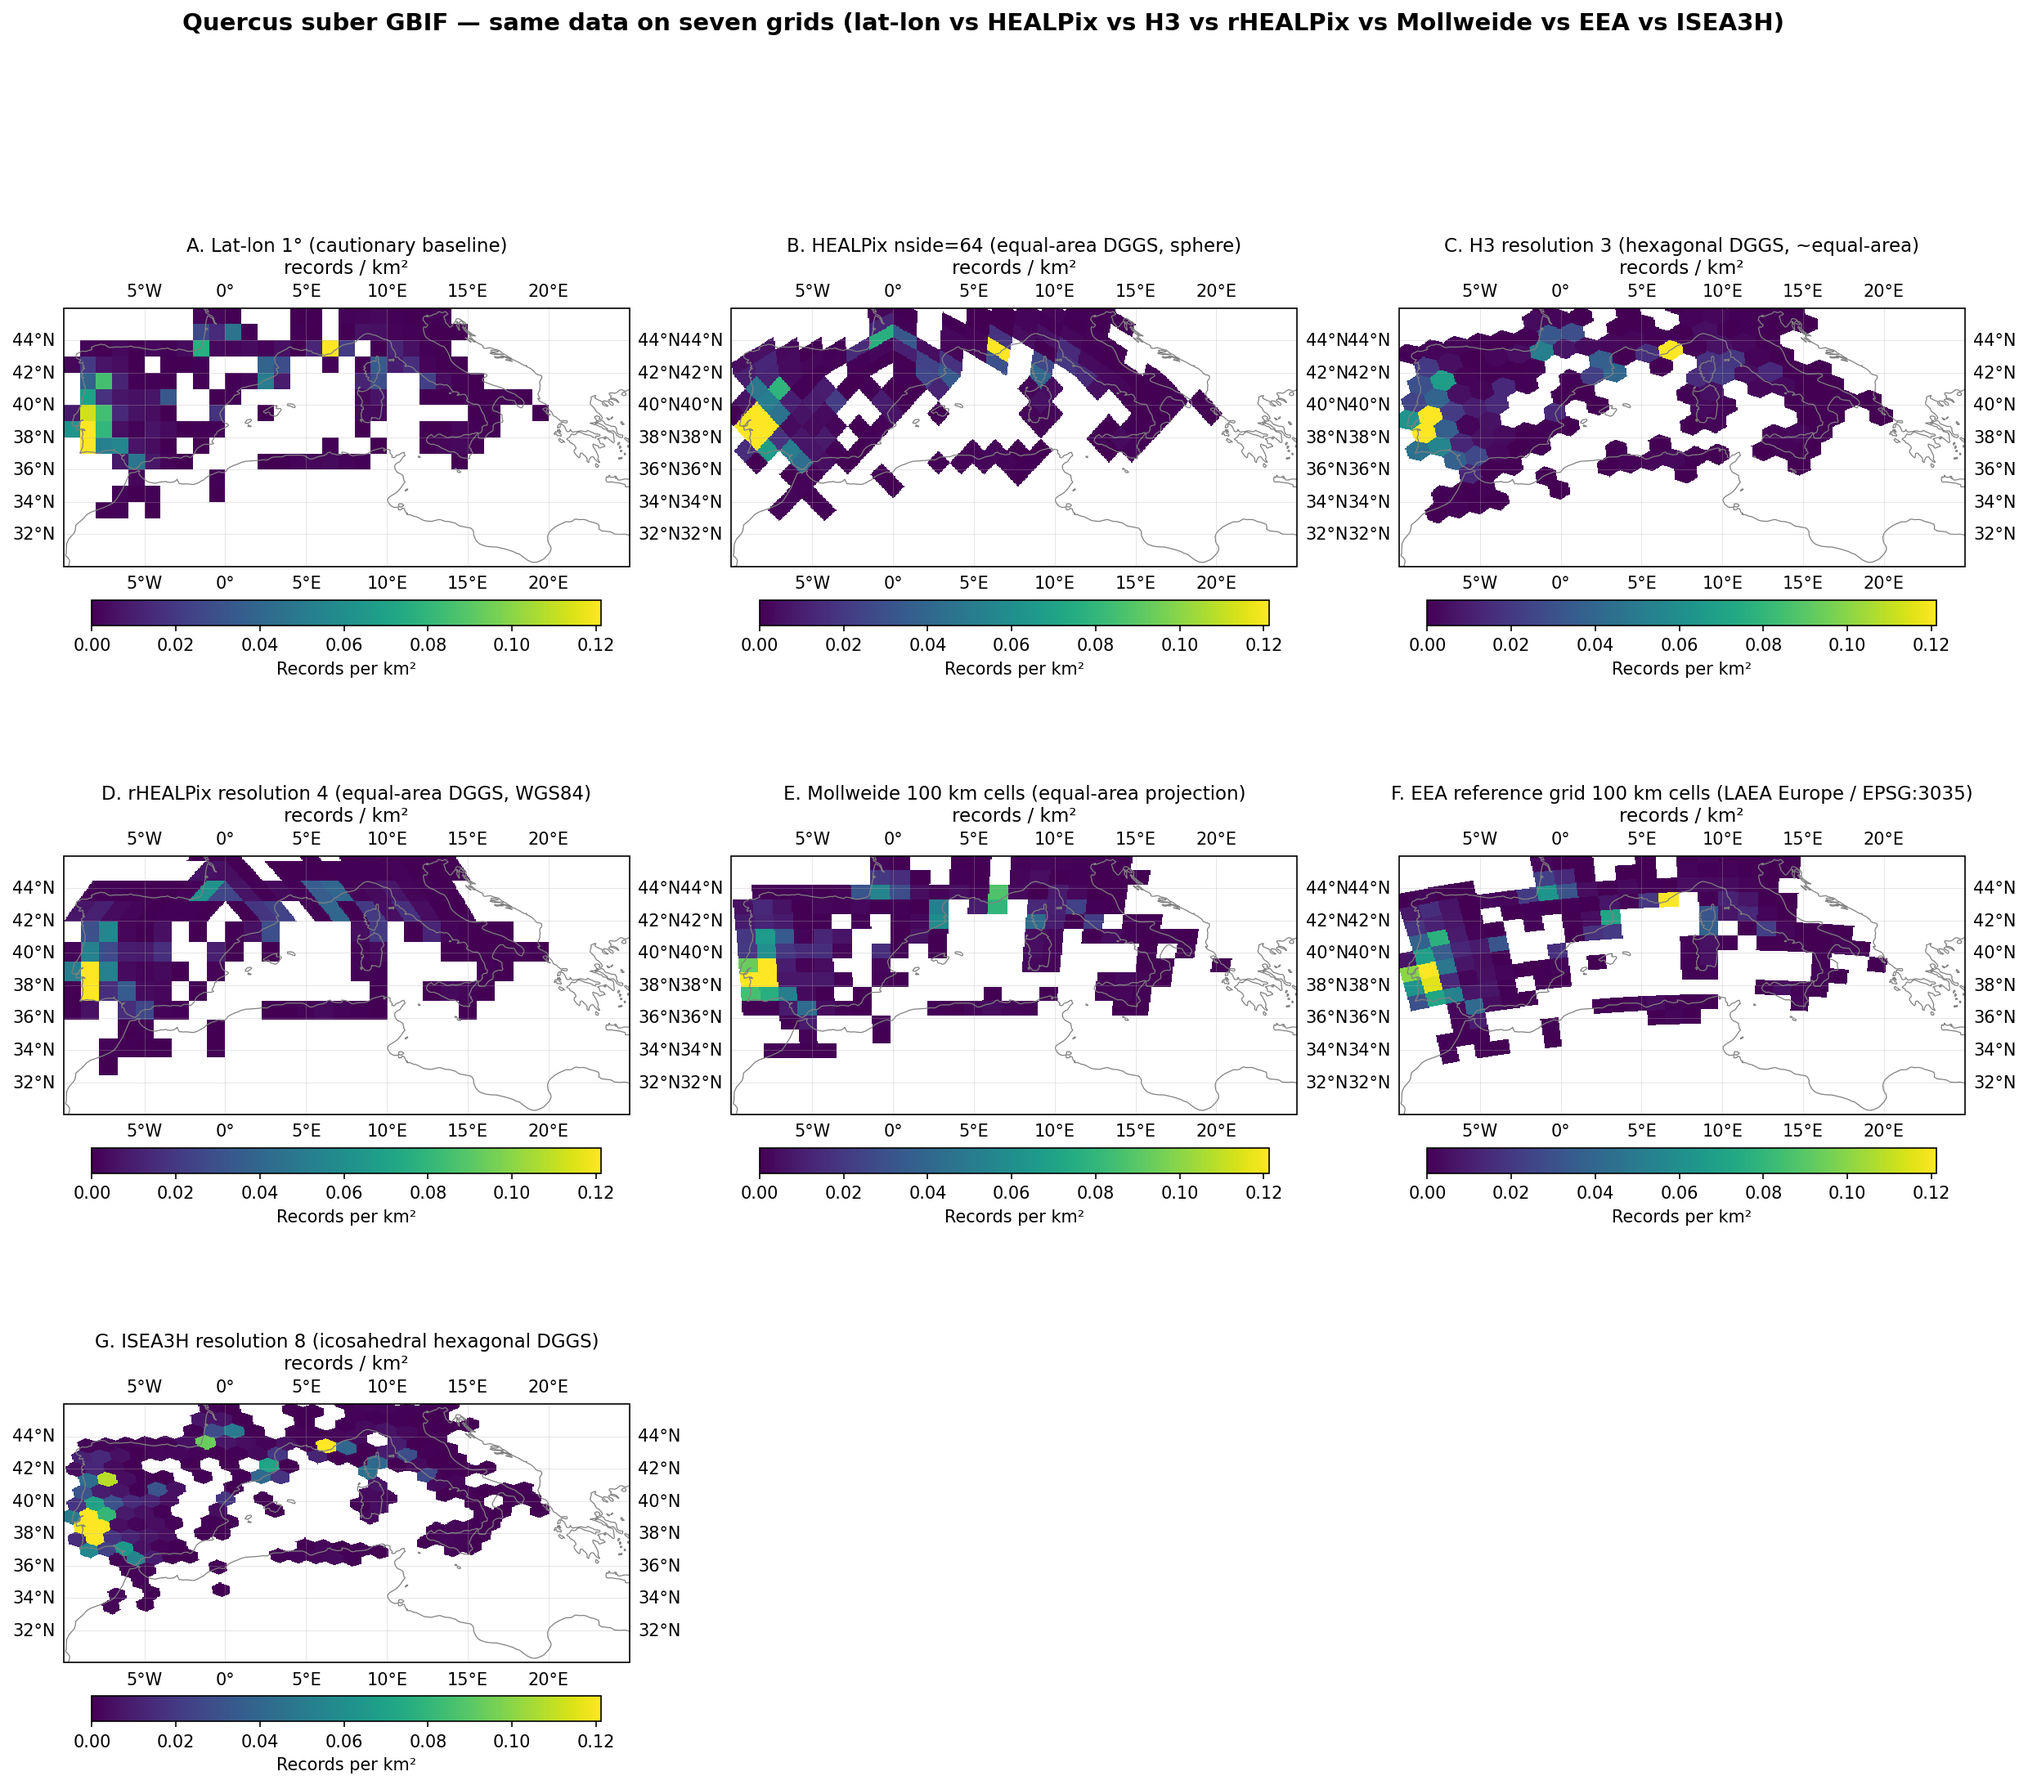
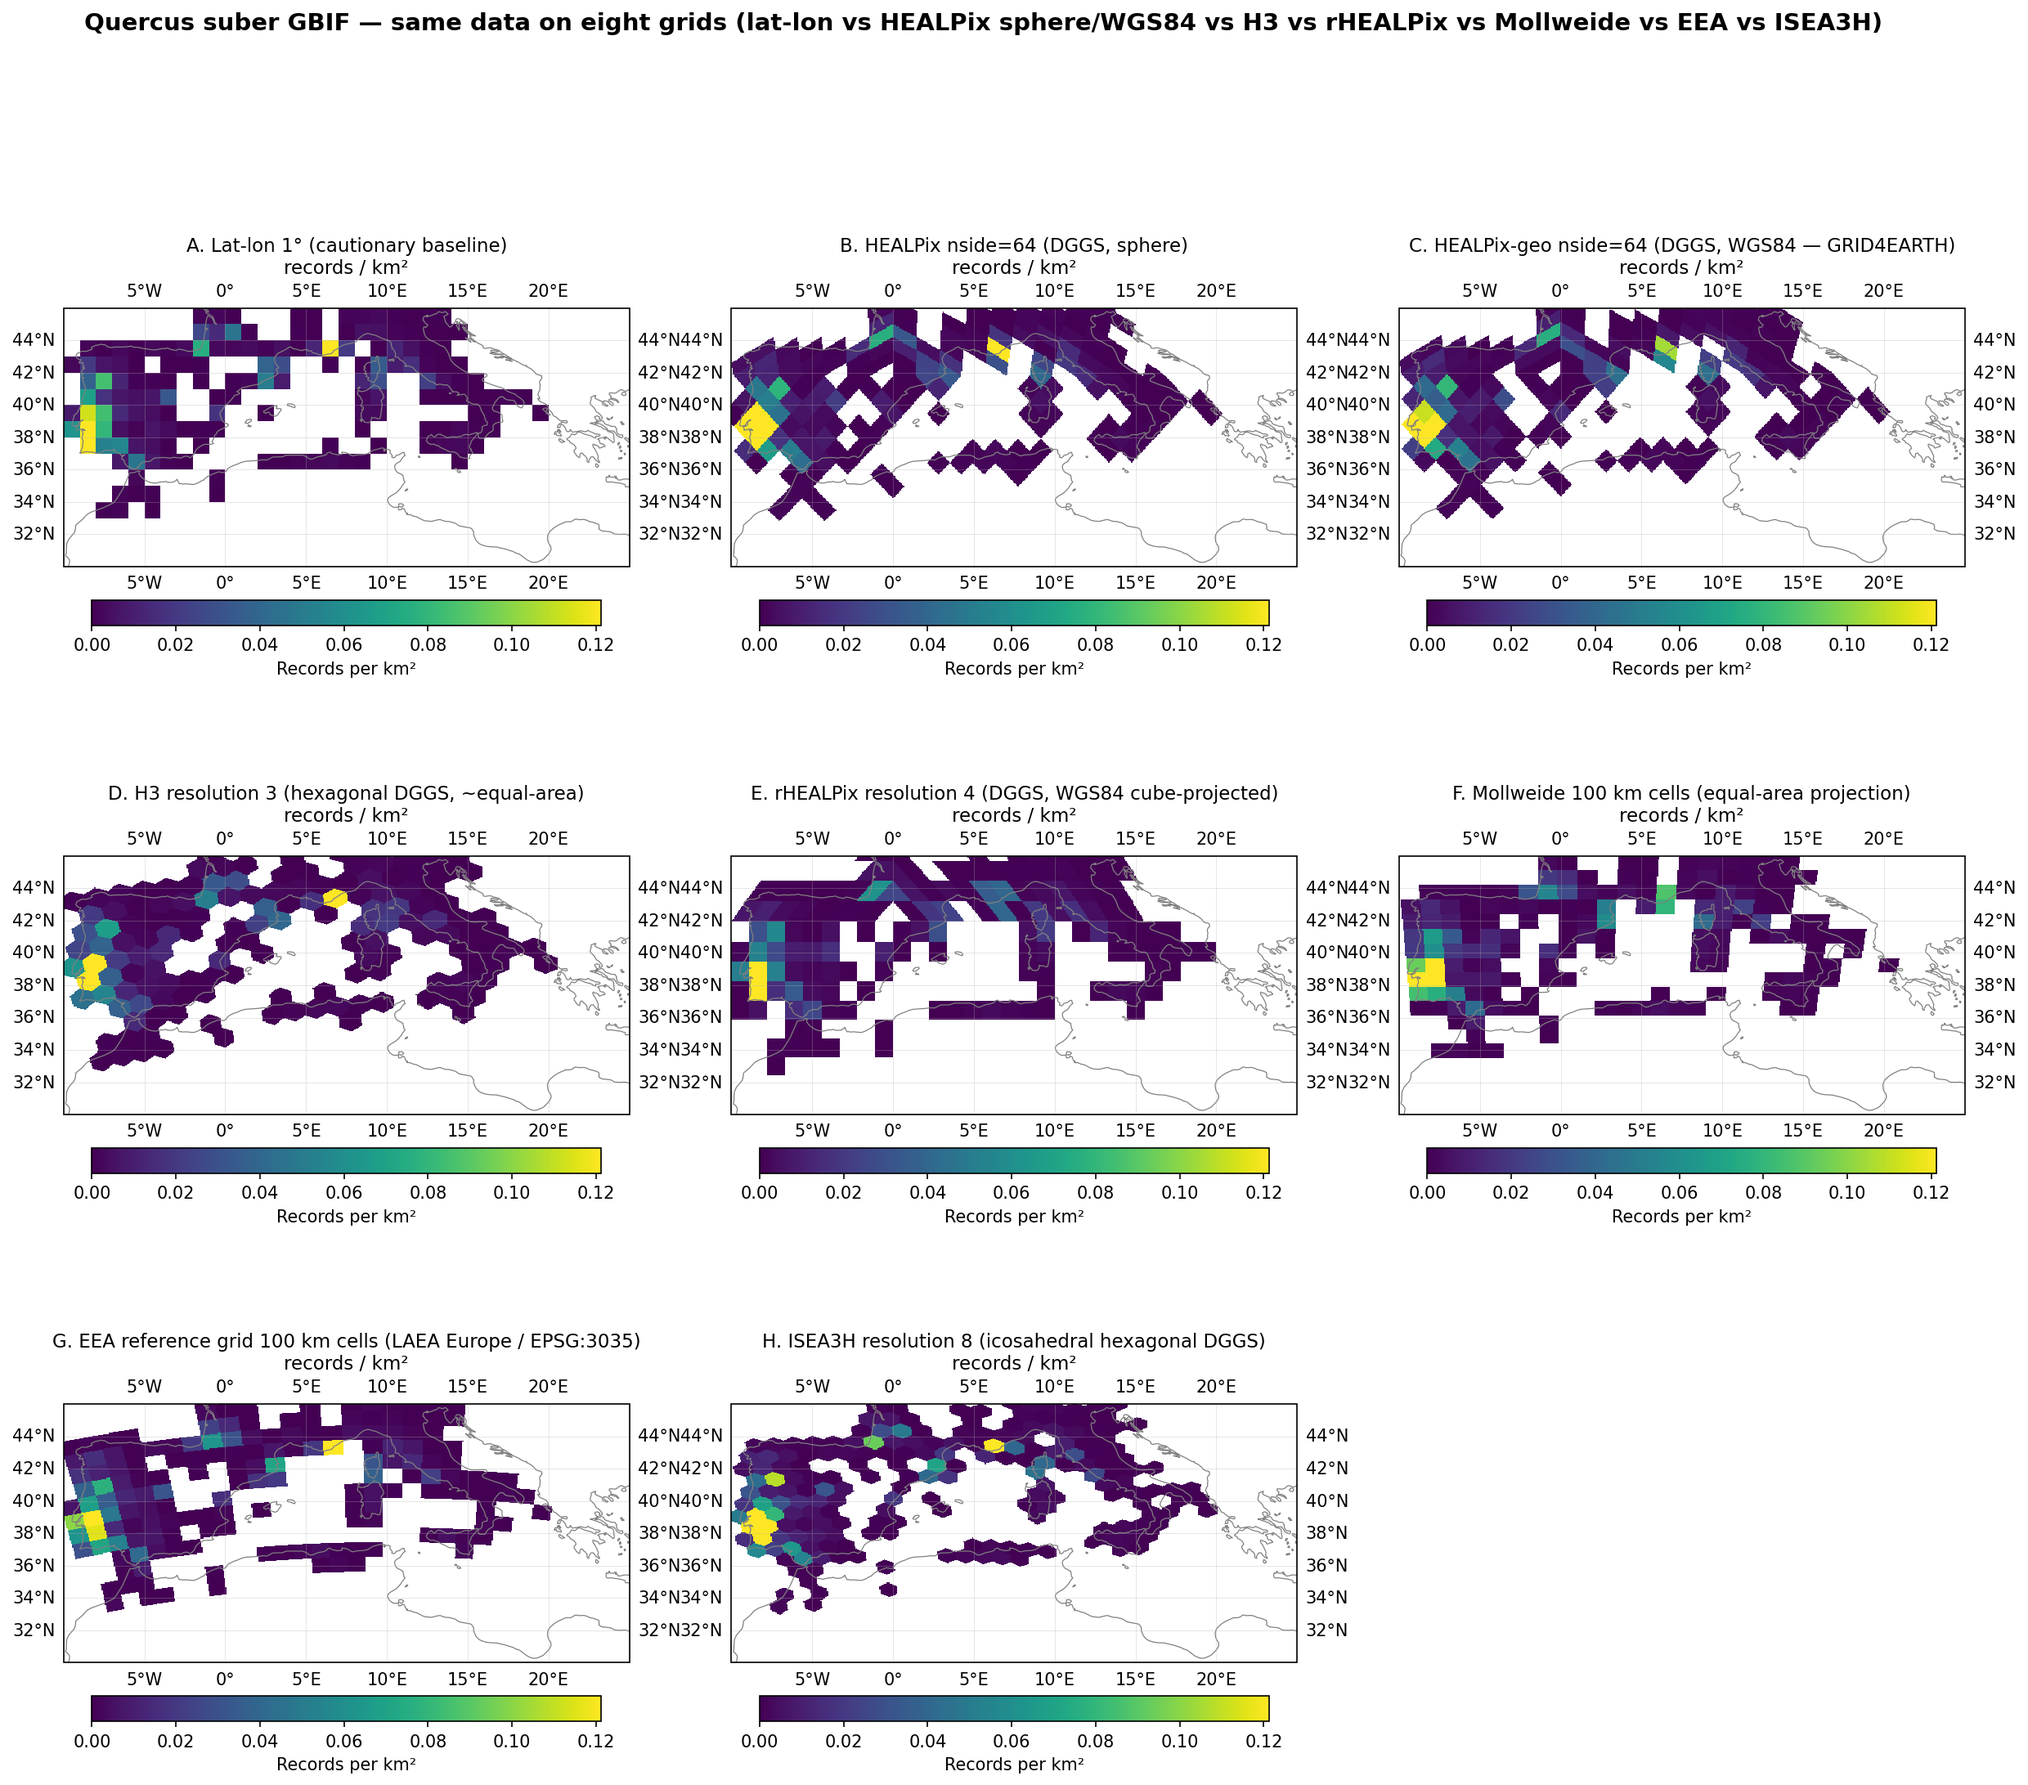
notebook 07: add HEALPix-geo (WGS84) panel — 8-grid comparison
Adds HEALPix-on-WGS84 (via healpix-geo, ellipsoid="WGS84") as panel
C in the 3x3 layout, alongside HEALPix-on-sphere (panel B). The
two HEALPix variants look visually identical at this resolution -
which is the pedagogical point. The cell IDs are the same NESTED
integers; only the cell *boundaries* shift by ~0.7% area at boreal
latitudes (a difference invisible in a density-pattern figure but
real and material at high-precision integration scenarios — see
notebook 08 Section A).

This gives the comprehensive comparison full GRID4EARTH coverage:
- HEALPix-on-sphere (the reference HEALPix from Gorski et al. 2005)
- HEALPix-on-WGS84 (the GRID4EARTH "Ellipsoidal HEALPix" path)
- rHEALPix (the cube-projected equal-area HEALPix variant on WGS84)

Tested locally in pangeo conda env. 0 errors. All 8 grids show
near-identical density patterns over Q. suber's Mediterranean range;
lat-lon (panel A) is the only one that distorts.

diff --git a/notebooks/07_multigrid_quercus_suber.py b/notebooks/07_multigrid_quercus_suber.py
@@ -60,6 +60,7 @@ from pathlib import Path
 import cartopy.crs as ccrs
 import geopandas as gpd
 import h3
+import healpix_geo.nested as hgn
 import healpy as hp
 import matplotlib.pyplot as plt
 import numpy as np
@@ -161,6 +162,34 @@ counts_healpix = np.bincount(pix, minlength=NPIX)
 print(f"HEALPix nside={NSIDE}: {NPIX:,} cells globally, "
       f"each {HEALPIX_CELL_AREA:,.0f} km²; "
       f"{int(np.sum(counts_healpix > 0)):,} occupied in window")
+
+# %% [markdown]
+# ## Step 4b: Aggregate on HEALPix-geo (HEALPix on WGS84 ellipsoid)
+#
+# `healpix-geo` is the package implementing the **GRID4EARTH (ESA)
+# "Ellipsoidal HEALPix"** approach: HEALPix indexing whose cell
+# vertices are computed on the WGS84 ellipsoid via authalic-sphere
+# mapping. Cell area is exactly equal-area on Earth's actual oblate
+# shape (not on the unit sphere). depth=6 corresponds to nside=64.
+# The cell IDs are the same NESTED-ordered integers as
+# `hp.ang2pix(..., nest=True)`; only the cell *boundaries* differ
+# slightly (~0.7% area shift at boreal latitudes — see notebook 08).
+# Density patterns over Q. suber's range will look nearly identical
+# to the HEALPix-on-sphere panel; the difference is precision-grade,
+# not visual.
+
+# %%
+HEALPIX_GEO_DEPTH = 6  # nside = 2^depth = 64
+HEALPIX_GEO_CELL_AREA = HEALPIX_CELL_AREA  # essentially the same for plotting
+
+# WGS84-ellipsoid HEALPix cell index for each Q. suber point.
+pix_geo = hgn.lonlat_to_healpix(
+    lons_r.astype(np.float64), lats_r.astype(np.float64),
+    depth=HEALPIX_GEO_DEPTH, ellipsoid="WGS84",
+)
+counts_healpix_geo = np.bincount(pix_geo, minlength=NPIX)
+print(f"HEALPix-geo nside={NSIDE} (WGS84): "
+      f"{int(np.sum(counts_healpix_geo > 0)):,} occupied cells in window")
 
 # %% [markdown]
 # ## Step 5: Aggregate on H3 resolution 3 (icosahedral hexagonal DGGS)
@@ -375,6 +404,18 @@ healpix_field = counts_healpix[plot_pix].astype(float)
 healpix_density = healpix_field / HEALPIX_CELL_AREA
 healpix_density_masked = np.ma.masked_where(healpix_field == 0, healpix_density)
 
+# HEALPix-geo (WGS84): lookup pix per plot pixel via healpix-geo
+plot_pix_geo = hgn.lonlat_to_healpix(
+    plot_lon_g.ravel().astype(np.float64),
+    plot_lat_g.ravel().astype(np.float64),
+    depth=HEALPIX_GEO_DEPTH, ellipsoid="WGS84",
+).reshape(plot_lat_g.shape)
+healpix_geo_field = counts_healpix_geo[plot_pix_geo].astype(float)
+healpix_geo_density = healpix_geo_field / HEALPIX_GEO_CELL_AREA
+healpix_geo_density_masked = np.ma.masked_where(
+    healpix_geo_field == 0, healpix_geo_density,
+)
+
 # H3: lookup cell per plot pixel
 plot_cells_h3 = [
     h3.latlng_to_cell(float(lat), float(lon), H3_RES)
@@ -463,6 +504,7 @@ density_latlon_masked = np.ma.masked_where(counts_latlon == 0, density_latlon)
 shared_vmax = float(np.percentile(np.concatenate([
     density_latlon_masked.compressed(),
     healpix_density_masked.compressed(),
+    healpix_geo_density_masked.compressed(),
     h3_density_masked.compressed(),
     rhp_density_masked.compressed(),
     moll_density_masked.compressed(),
@@ -471,11 +513,12 @@ shared_vmax = float(np.percentile(np.concatenate([
 ]), 98))
 
 # %% [markdown]
-# ## Step 7: Seven-panel comparison
+# ## Step 7: Eight-panel comparison
 #
-# Same data, seven grids. The six equal-area grids (HEALPix, H3,
-# rHEALPix, Mollweide, EEA, ISEA3H) should agree on the apparent
-# density pattern. The lat-lon panel is the cautionary case.
+# Same data, eight grids. The seven equal-area grids (HEALPix-sphere,
+# HEALPix-geo on WGS84, H3, rHEALPix, Mollweide, EEA, ISEA3H) should
+# agree on the apparent density pattern. The lat-lon panel is the
+# cautionary case.
 
 # %%
 fig = plt.figure(figsize=(20, 16))
@@ -484,17 +527,19 @@ gs = fig.add_gridspec(3, 3, wspace=0.18, hspace=0.32)
 panels = [
     ("A. Lat-lon 1° (cautionary baseline)\nrecords / km²",
      density_latlon_masked, lon_edges, lat_edges, "edges"),
-    (f"B. HEALPix nside={NSIDE} (equal-area DGGS, sphere)\nrecords / km²",
+    (f"B. HEALPix nside={NSIDE} (DGGS, sphere)\nrecords / km²",
      healpix_density_masked, plot_lons, plot_lats, "centres"),
-    (f"C. H3 resolution {H3_RES} (hexagonal DGGS, ~equal-area)\nrecords / km²",
+    (f"C. HEALPix-geo nside={NSIDE} (DGGS, WGS84 — GRID4EARTH)\nrecords / km²",
+     healpix_geo_density_masked, plot_lons, plot_lats, "centres"),
+    (f"D. H3 resolution {H3_RES} (hexagonal DGGS, ~equal-area)\nrecords / km²",
      h3_density_masked, plot_lons, plot_lats, "centres"),
-    (f"D. rHEALPix resolution {RHP_RES} (equal-area DGGS, WGS84)\nrecords / km²",
+    (f"E. rHEALPix resolution {RHP_RES} (DGGS, WGS84 cube-projected)\nrecords / km²",
      rhp_density_masked, plot_lons, plot_lats, "centres"),
-    (f"E. Mollweide {MOLL_CELL_SIDE_KM:.0f} km cells (equal-area projection)\nrecords / km²",
+    (f"F. Mollweide {MOLL_CELL_SIDE_KM:.0f} km cells (equal-area projection)\nrecords / km²",
      moll_density_masked, plot_lons, plot_lats, "centres"),
-    (f"F. EEA reference grid {EEA_CELL_SIDE_KM:.0f} km cells (LAEA Europe / EPSG:3035)\nrecords / km²",
+    (f"G. EEA reference grid {EEA_CELL_SIDE_KM:.0f} km cells (LAEA Europe / EPSG:3035)\nrecords / km²",
      eea_density_masked, plot_lons, plot_lats, "centres"),
-    (f"G. ISEA3H resolution {ISEA3H_RES} (icosahedral hexagonal DGGS)\nrecords / km²",
+    (f"H. ISEA3H resolution {ISEA3H_RES} (icosahedral hexagonal DGGS)\nrecords / km²",
      isea_density_masked, plot_lons, plot_lats, "centres"),
 ]
 
@@ -515,8 +560,8 @@ for k, (title, data, x, y, kind) in enumerate(panels):
                  label="Records per km²", shrink=0.9)
 
 fig.suptitle(
-    "Quercus suber GBIF — same data on seven grids "
-    "(lat-lon vs HEALPix vs H3 vs rHEALPix vs Mollweide vs EEA vs ISEA3H)",
+    "Quercus suber GBIF — same data on eight grids "
+    "(lat-lon vs HEALPix sphere/WGS84 vs H3 vs rHEALPix vs Mollweide vs EEA vs ISEA3H)",
     fontsize=14, fontweight="bold", y=1.00,
 )
 plt.savefig("../images/multigrid_quercus_suber.png", dpi=150,
